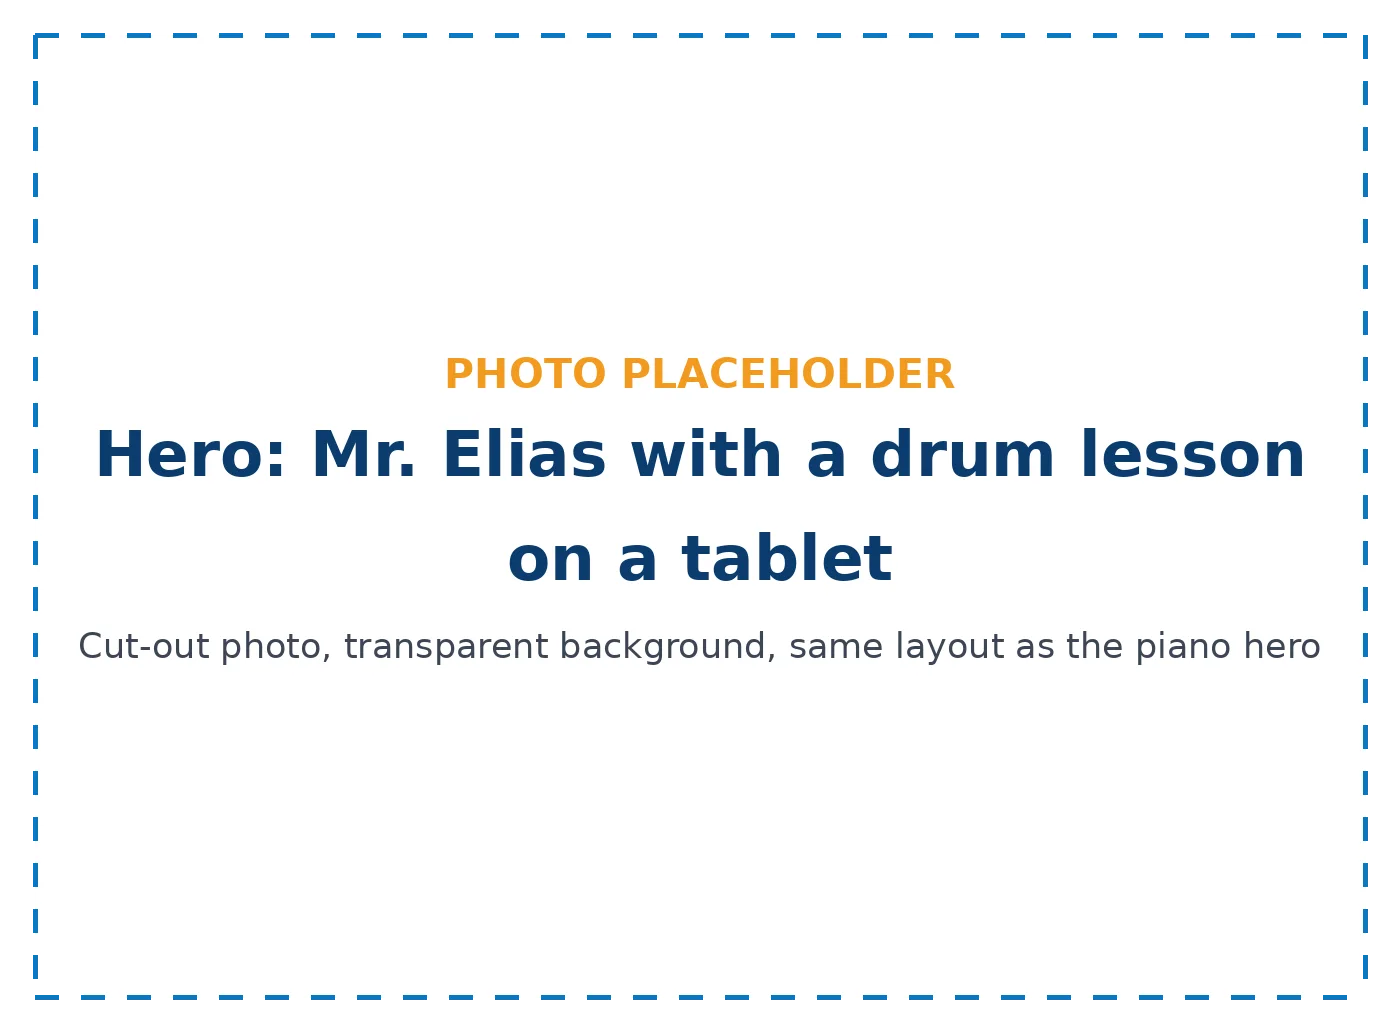
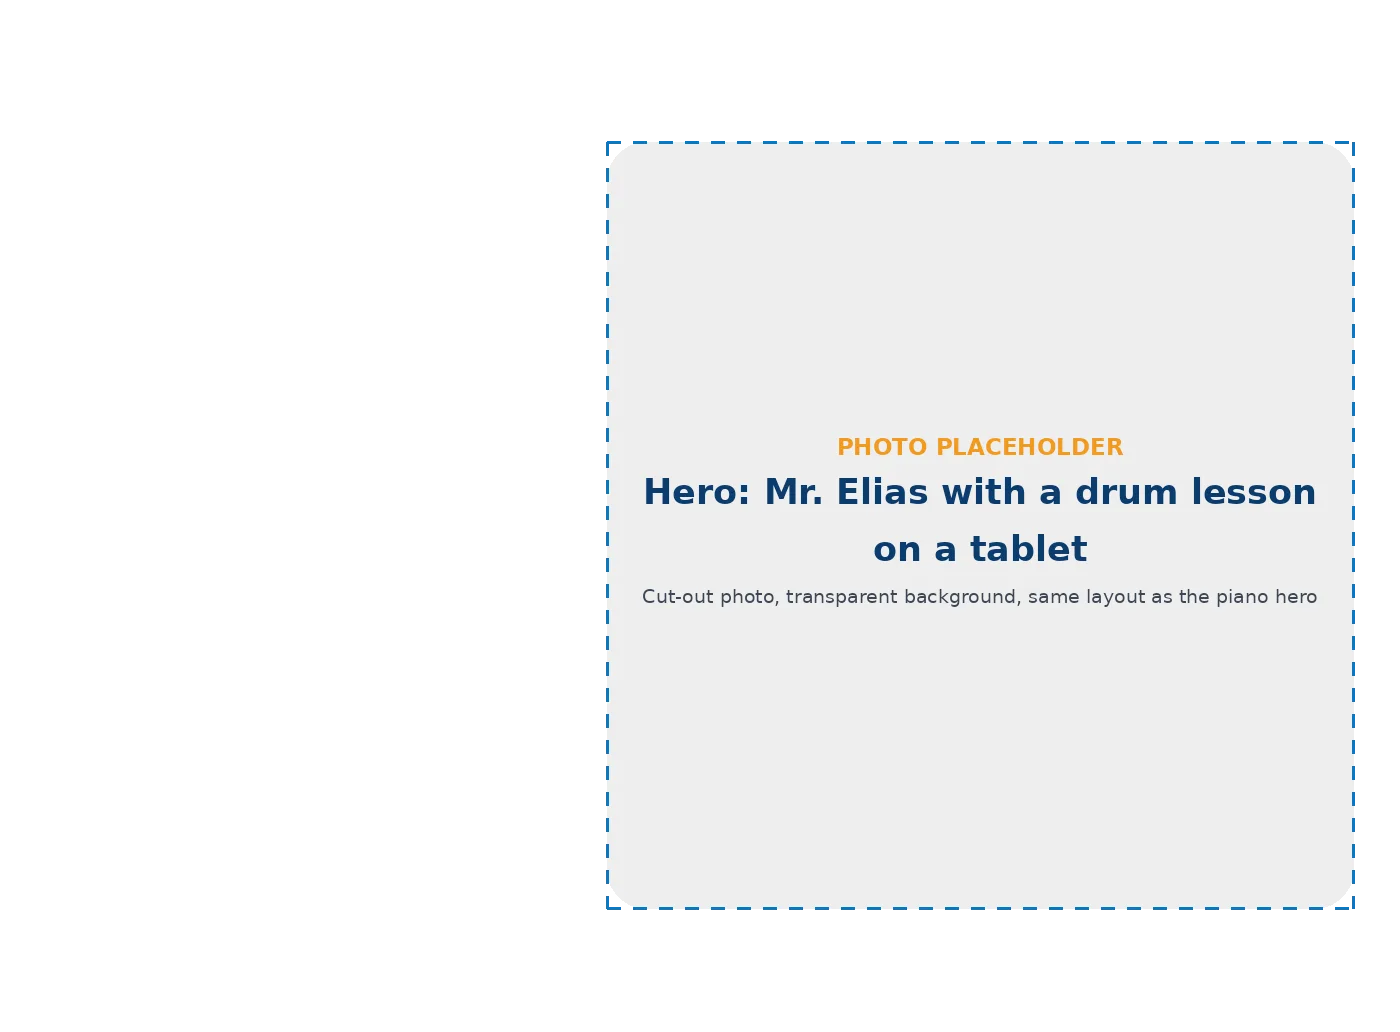
try-drums: keep hero placeholder clear of the headline
Claude-Session: https://claude.ai/code/session_01DF7Wtmv9abqDfa4bPie9Er

diff --git a/tools/build_try_drums.py b/tools/build_try_drums.py
@@ -41,10 +41,15 @@ def wrap(draw, text, font, width):
     return lines
 
 
-def placeholder(path, size, title, detail, transparent=False):
-    w, h = size
+def placeholder(path, size, title, detail, transparent=False, area=None):
+    W, H = size
     bg = (0, 0, 0, 0) if transparent else (232, 241, 250, 255)
-    im = Image.new("RGBA", size, bg)
+    full = Image.new("RGBA", size, bg)
+    # area = (x0, y0, x1, y1) fractions of the canvas to draw the card in
+    ax0, ay0, ax1, ay1 = area or (0, 0, 1, 1)
+    ox, oy = int(W * ax0), int(H * ay0)
+    w, h = int(W * (ax1 - ax0)), int(H * (ay1 - ay0))
+    im = Image.new("RGBA", (w, h), bg)
     d = ImageDraw.Draw(im)
     m = max(8, w // 40)
     box = (m, m, w - m, h - m)
@@ -73,9 +78,10 @@ def placeholder(path, size, title, detail, transparent=False):
         tw = d.textlength(text, font=f)
         d.text(((w - tw) / 2, y), text, font=f, fill=col)
         y += lh
+    full.paste(im, (ox, oy), im)
     if not transparent:
-        im = im.convert("RGB")
-    im.save(path, "WEBP", quality=82)
+        full = full.convert("RGB")
+    full.save(path, "WEBP", quality=82)
 
 
 def main():
@@ -87,9 +93,9 @@ def main():
     # ---------- placeholder images ----------
     hero_t = "Hero: Mr. Elias with a drum lesson on a tablet"
     hero_d = "Cut-out photo, transparent background, same layout as the piano hero"
-    placeholder(f"{A}/hero-drums-desktop.webp", (1400, 1032), hero_t, hero_d, transparent=True)
-    placeholder(f"{A}/hero-drums-mobile.webp", (800, 590), hero_t, hero_d, transparent=True)
-    placeholder(f"{A}/hero-drums-placeholder.webp", (760, 560), hero_t, hero_d, transparent=True)
+    placeholder(f"{A}/hero-drums-desktop.webp", (1400, 1032), hero_t, hero_d, transparent=True, area=(0.42, 0.12, 0.98, 0.9))
+    placeholder(f"{A}/hero-drums-mobile.webp", (800, 590), hero_t, hero_d, transparent=True, area=(0.06, 0.06, 0.94, 0.94))
+    placeholder(f"{A}/hero-drums-placeholder.webp", (760, 560), hero_t, hero_d, transparent=True, area=(0.42, 0.12, 0.98, 0.9))
 
     day1_t = "Day 1: child at home holding drumsticks"
     day1_d = "e.g. tapping the printable paper drum or a practice pad, lesson on a tablet"
